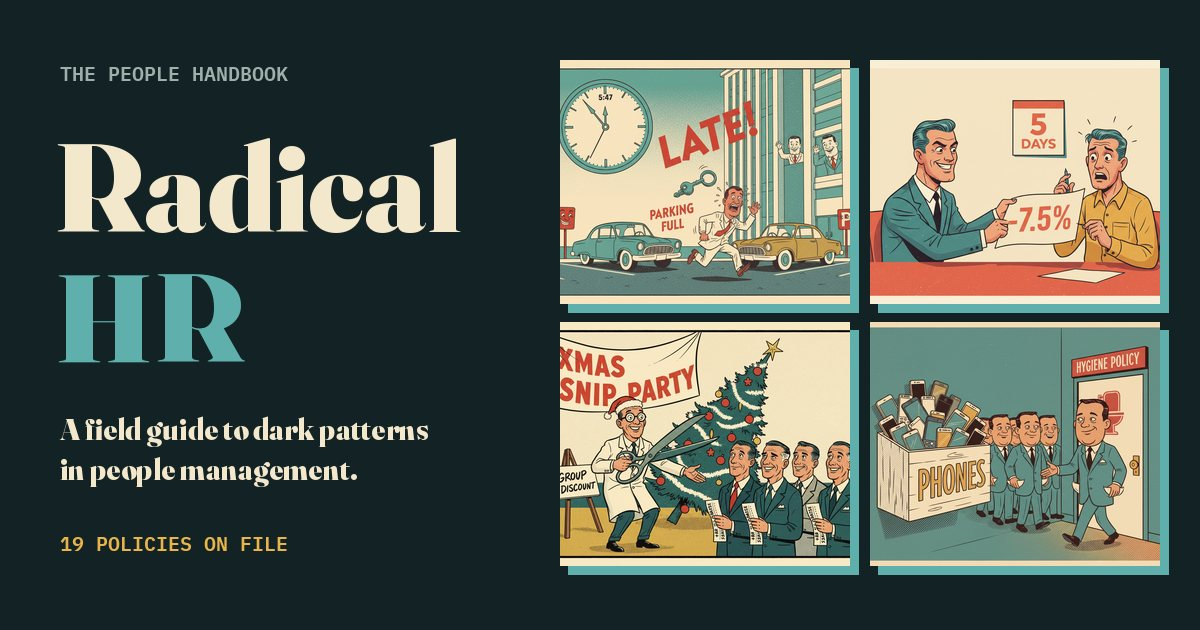
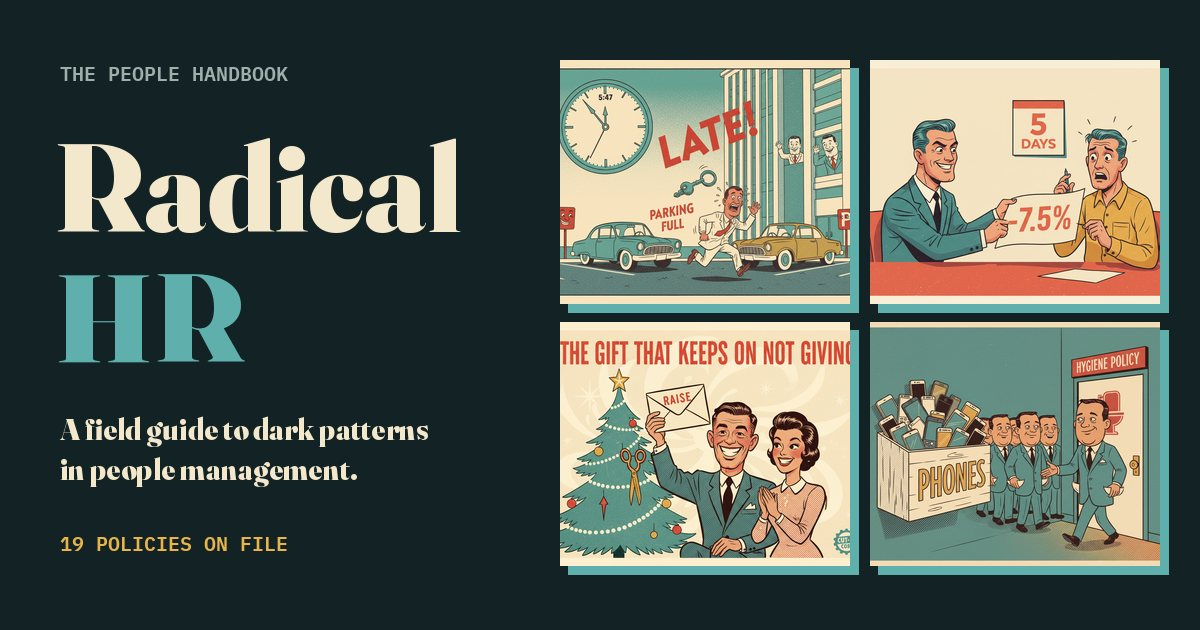
Swap RHR-003 illustration for the 'gift that keeps on not giving' poster

Changed region(s): [[0.4625, 0.5127, 0.7092, 0.9048]]

diff --git a/tools/generate.py b/tools/generate.py
@@ -44,10 +44,10 @@ IDEAS = {
     "applicant": "A smug manager holds up a glowing resume with five gold stars and a photo of an impossibly "
                  "perfect young genius, showing it to a nervous employee at her desk who is sweating and "
                  "clutching her coffee mug.",
-    "christmas": "A festive company Christmas party in the office, decorated with a tree and tinsel. A beaming "
-                 "manager in a Santa hat welcomes a queue of visibly nervous male employees in suits toward a "
-                 "doctor in a white coat holding a giant pair of scissors. A banner reads 'XMAS SNIP PARTY' and "
-                 "a sign reads 'GROUP DISCOUNT'. Each man in the queue clutches a pay slip reading '+RAISE'.",
+    "christmas": "A cheerful 1950s advertisement poster. A smiling father in a suit sits by the Christmas tree with "
+                 "his delighted wife, proudly holding a pay envelope marked 'RAISE'. A tiny pair of scissors hangs on "
+                 "the tree as an ornament. Big headline: 'THE GIFT THAT KEEPS ON NOT GIVING'. A small company logo "
+                 "in the corner.",
     "afternoon": "A cheerful open-plan office at 2 o'clock on a weekday. Rosy-cheeked employees raise beer mugs "
                  "at their desks while a wall clock shows 2:00. A rising sales chart on the wall.",
     "esteem": "A manager hoists a delighted employee high onto a tall pedestal labeled 'STAR', while holding "
